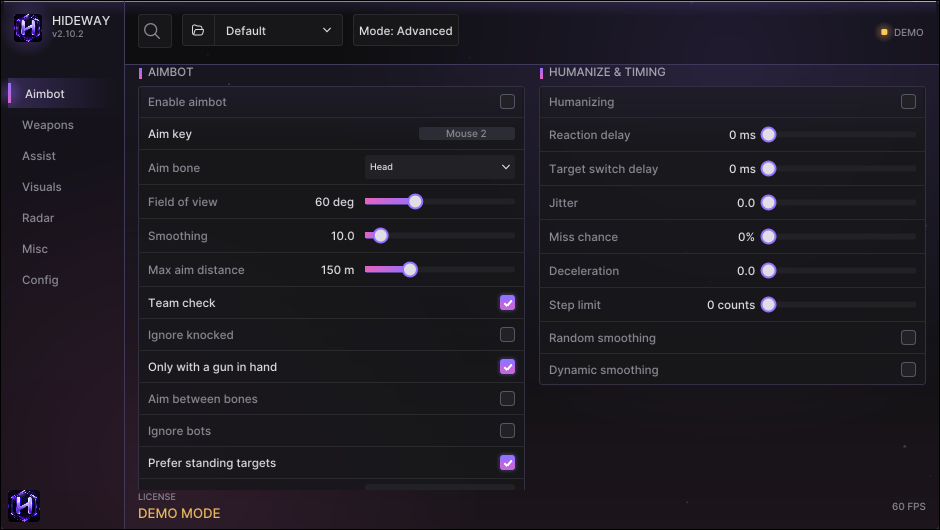
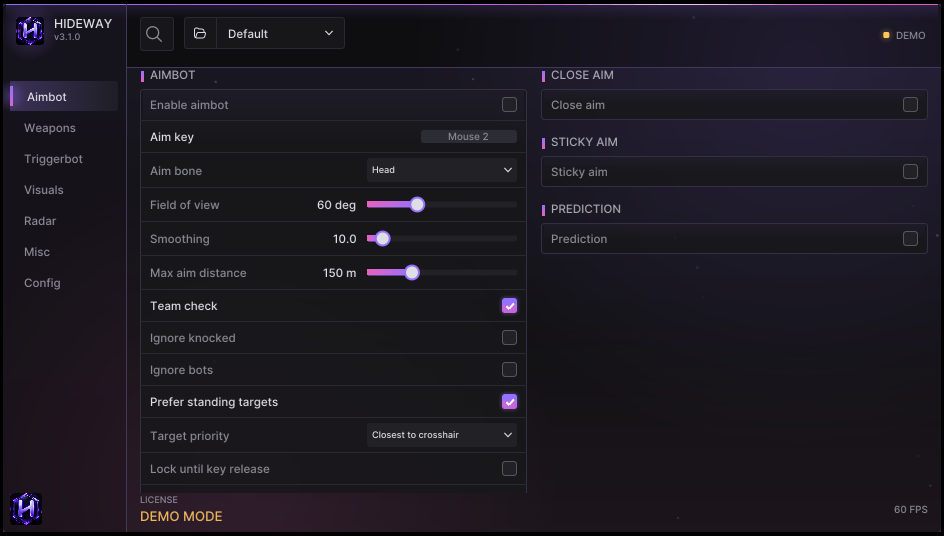
Docs: v3.1.0 menu (Triggerbot page, Close/Sticky/Prediction on Aimbot), new screenshot

diff --git a/handbook/guides/aim-and-trigger.md b/handbook/guides/aim-and-trigger.md
@@ -28,12 +28,12 @@ On **Aimbot > CALIBRATION**, **Counts per degree X** and **Y** are the mouse cou
 ## 4. Per-weapon behaviour
 
 * **Weapons page**: give a class its own field of view, smoothing and bone with **Override**.
-* **Assist > CLOSE AIM**: a different field of view, smoothing and bone for close enemies.
-* **Assist > STICKY AIM**: once close to a target, the aim stays attached; turn it off against groups.
+* **Aimbot > CLOSE AIM**: a different field of view, smoothing and bone for close enemies.
+* **Aimbot > STICKY AIM**: once close to a target, the aim stays attached; turn it off against groups.
 
 ## 5. Prediction
 
-For moving targets: **Assist > PREDICTION**. Set **Projectile speed** and **gravity** (or use **Per-weapon ballistics**), and **Prediction lead** for the delay between your input and what you see.
+For moving targets: **Aimbot > PREDICTION**. Set **Projectile speed** and **gravity** (or use **Per-weapon ballistics**), and **Prediction lead** for the delay between your input and what you see.
 
 **Measure your lead:** Debug > LATENCY > **Measure latency** (stand still in a match, hands off the mouse). It measures the mouse-to-camera delay and offers **Use as Prediction lead** / **Use as Trigger lead**.
 
@@ -52,7 +52,7 @@ For moving targets: **Assist > PREDICTION**. Set **Projectile speed** and **grav
 ## 7. Understand what it is doing
 
 * The **Highlight target** option (Visuals) draws the player the aim or trigger picked in its own colour.
-* The Assist page shows why the trigger did or did not fire (**Last check**, with Advanced debug).
+* The Triggerbot page shows why the trigger did or did not fire (**Last check**, with Advanced debug).
 * Debug > TELEMETRY counts key-held ticks, ticks with a target and shots.
 
 ## 8. When something goes wrong

diff --git a/handbook/the-menu/overview.md b/handbook/the-menu/overview.md
@@ -8,9 +8,9 @@ Press **Insert** (default) to open or close the menu. It has a left side bar wit
 
 | Page | What is on it |
 |---|---|
-| [**Aimbot**](aimbot.md) | Aim key, bone, field of view, smoothing, visibility rules, humanizing, calibration |
+| [**Aimbot**](aimbot.md) | Aim key, bone, field of view, smoothing, visibility rules, humanizing, calibration, plus the Close aim, Sticky aim and Prediction cards |
 | [**Weapons**](weapons.md) | Per-class overrides (rifle, pistol, SMG, shotgun, sniper) and weapon detection |
-| [**Assist**](assist.md) | Triggerbot, close aim, sticky aim, prediction, ballistics per weapon |
+| [**Triggerbot**](assist.md) | Triggerbot: target part, delay, hold time, range, confirmation, visibility checks |
 | [**Visuals**](visuals.md) | Everything drawn on players, loot, reboot cards, spectators, audio alerts, colours |
 | [**Radar**](radar.md) | On-screen radar and the web radar |
 | [**Misc**](misc.md) | Overlay settings, notifications, keys, input device, debug switches, engine |

diff --git a/handbook/guides/hotkeys.md b/handbook/guides/hotkeys.md
@@ -11,7 +11,7 @@ Every key can be rebound. Click the box next to a key option, then press the key
 | **Next config key** | not set | Switch to the next config | Misc > KEYS |
 | **Previous config key** | not set | Switch to the previous config | Misc > KEYS |
 | **Aim key** | Mouse 2 | Hold to aim | Aimbot |
-| **Trigger key** | Mouse 5 | Activates the triggerbot in *Hold key* mode | Assist |
+| **Trigger key** | Mouse 5 | Activates the triggerbot in *Hold key* mode | Triggerbot |
 | **Radar toggle key** | not set | Show / hide the radar | Radar |
 | **Radar enlarge key** | not set | Make the radar bigger while toggled | Radar |
 | **Fuser toggle key** | not set | Open / close the fuser window | Visuals > HUD |

diff --git a/handbook/reference/options.md b/handbook/reference/options.md
@@ -55,7 +55,7 @@ The menu is all-in-one: every option below is on its page. Type in the search bo
 | **SMG anim id** | whole number | 5 | 0 to 40 | Raw weapon animation id the game reports for SMGs. Only change it if the Debug page shows another id for the weapon you hold. |
 | **Sniper anim id** | whole number | 6 | 0 to 40 | Raw weapon animation id the game reports for sniper rifles. Only change it if the Debug page shows another id for the weapon you hold. |
 
-## Assist: trigger, close aim, sticky aim, prediction
+## Triggerbot, close aim, sticky aim, prediction
 
 | Option | Type | Default | Range / choices | What it does |
 |---|---|---|---|---|

diff --git a/handbook/the-menu/assist.md b/handbook/the-menu/assist.md
@@ -1,8 +1,6 @@
-# Assist
+# Triggerbot
 
-Assist holds the helpers around aiming: the triggerbot, close aim, sticky aim and prediction. All of them need a connected input device.
-
-<figure><img src="../.gitbook/assets/menu-assist-advanced.png" alt="Assist page"><figcaption><p>The Assist page: TRIGGERBOT on the left, CLOSE AIM and STICKY AIM on the right.</p></figcaption></figure>
+The Triggerbot page holds the triggerbot. It needs a connected input device. Close aim, sticky aim and prediction are cards on the [Aimbot](aimbot.md) page; they are described at the bottom of this page.
 
 ## TRIGGERBOT
 

diff --git a/handbook/reference/release-notes.md b/handbook/reference/release-notes.md
@@ -3,8 +3,9 @@
 Newest first. This is the same text the launcher shows under **Updates > What's new**.
 
 
-## Latest update
+## 3.1.0
 
+* The menu now has the pages Aimbot, Weapons, Triggerbot, Visuals, Radar, Misc and Config. **Close aim**, **Sticky aim** and **Prediction** are cards on the Aimbot page.
 * The Simple / Advanced menu is gone: the menu is now all-in-one. Every option is on its page, the **Mode** button in the top bar and the **Menu mode** option are removed, and the search box still finds any option.
 
 ## 2.10.2 - 2026-11-05

diff --git a/handbook/troubleshooting/aim-and-trigger.md b/handbook/troubleshooting/aim-and-trigger.md
@@ -49,7 +49,7 @@ Several reasons, from most to least common:
 * Menu open? **Trigger pause in menu** stops it by design.
 * **Trigger max distance**, **Trigger team check**, **Ignore knocked / bots**.
 * Holding something with no ammo (**Only with a gun in hand**).
-* The Assist page's **Last check** line (with Advanced debug) names the reason.
+* The Triggerbot page's **Last check** line (with Advanced debug) names the reason.
 
 ## The mouse button stays down
 

diff --git a/handbook/the-menu/weapons.md b/handbook/the-menu/weapons.md
@@ -25,4 +25,4 @@ The id table is only partly known on Fortnite 43.00. Recorded matches confirmed 
 
 ## Per-weapon ballistics
 
-Projectile speed and gravity per class (used by prediction) are on the **Assist** page under **BALLISTICS PER WEAPON**.
+Projectile speed and gravity per class (used by prediction) are on the **Aimbot** page (PREDICTION card) under **BALLISTICS PER WEAPON**.

diff --git a/handbook/SUMMARY.md b/handbook/SUMMARY.md
@@ -25,7 +25,7 @@
 * [Menu overview](the-menu/overview.md)
 * [Aimbot](the-menu/aimbot.md)
 * [Weapons](the-menu/weapons.md)
-* [Assist](the-menu/assist.md)
+* [Triggerbot](the-menu/assist.md)
 * [Visuals](the-menu/visuals.md)
 * [Radar](the-menu/radar.md)
 * [Misc](the-menu/misc.md)
